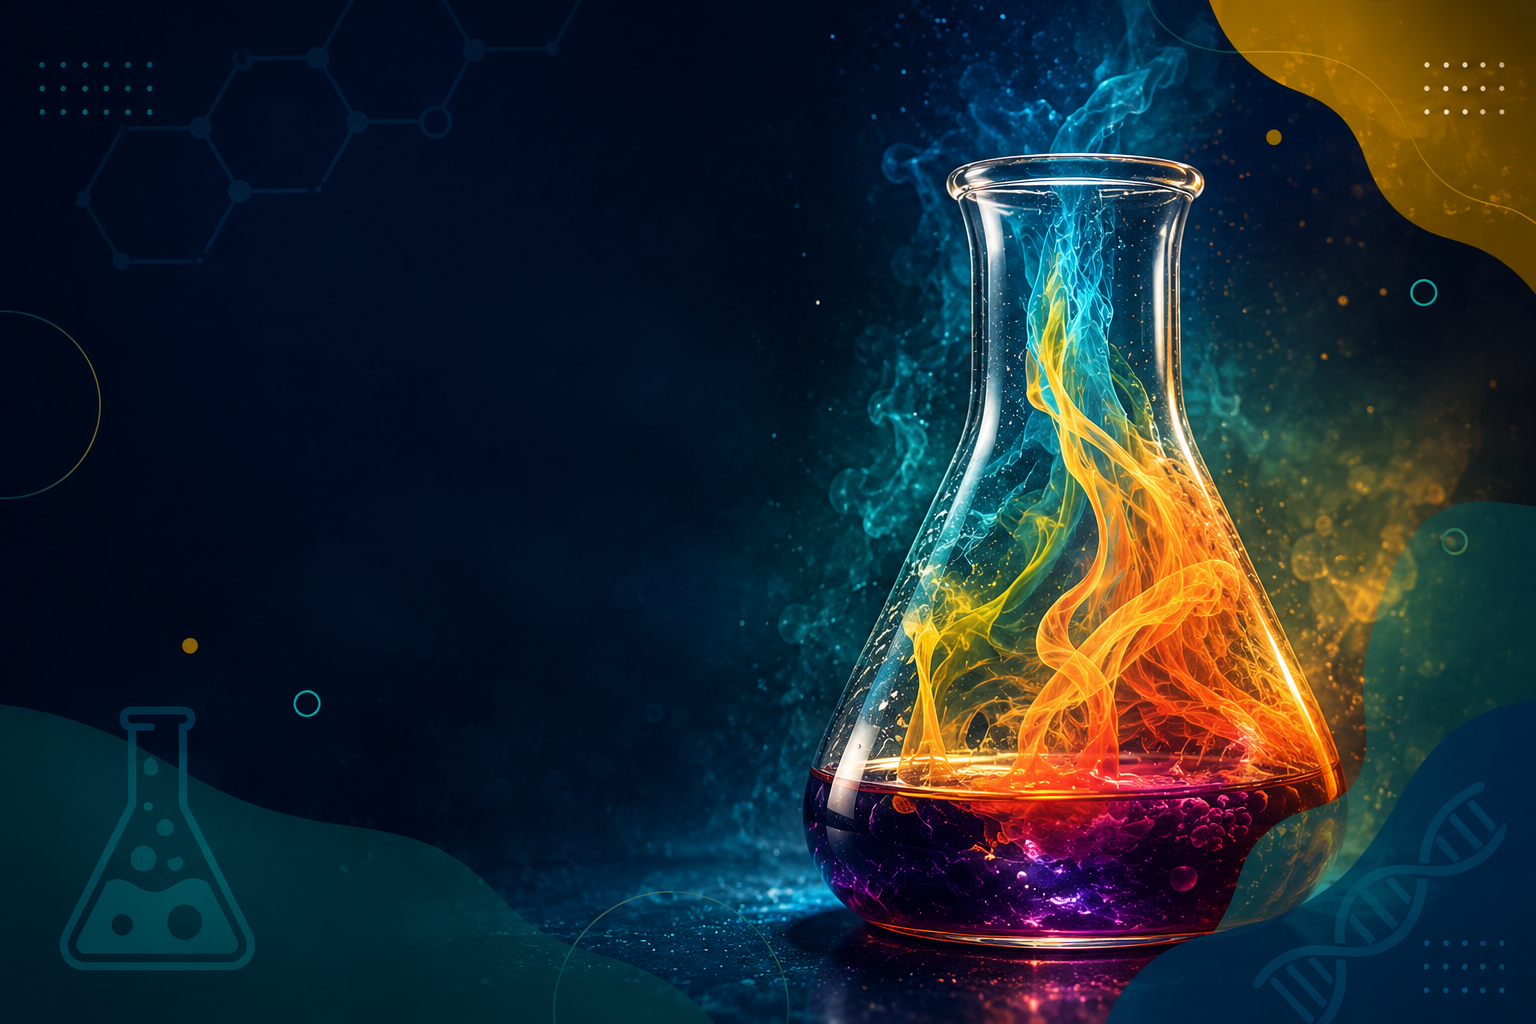
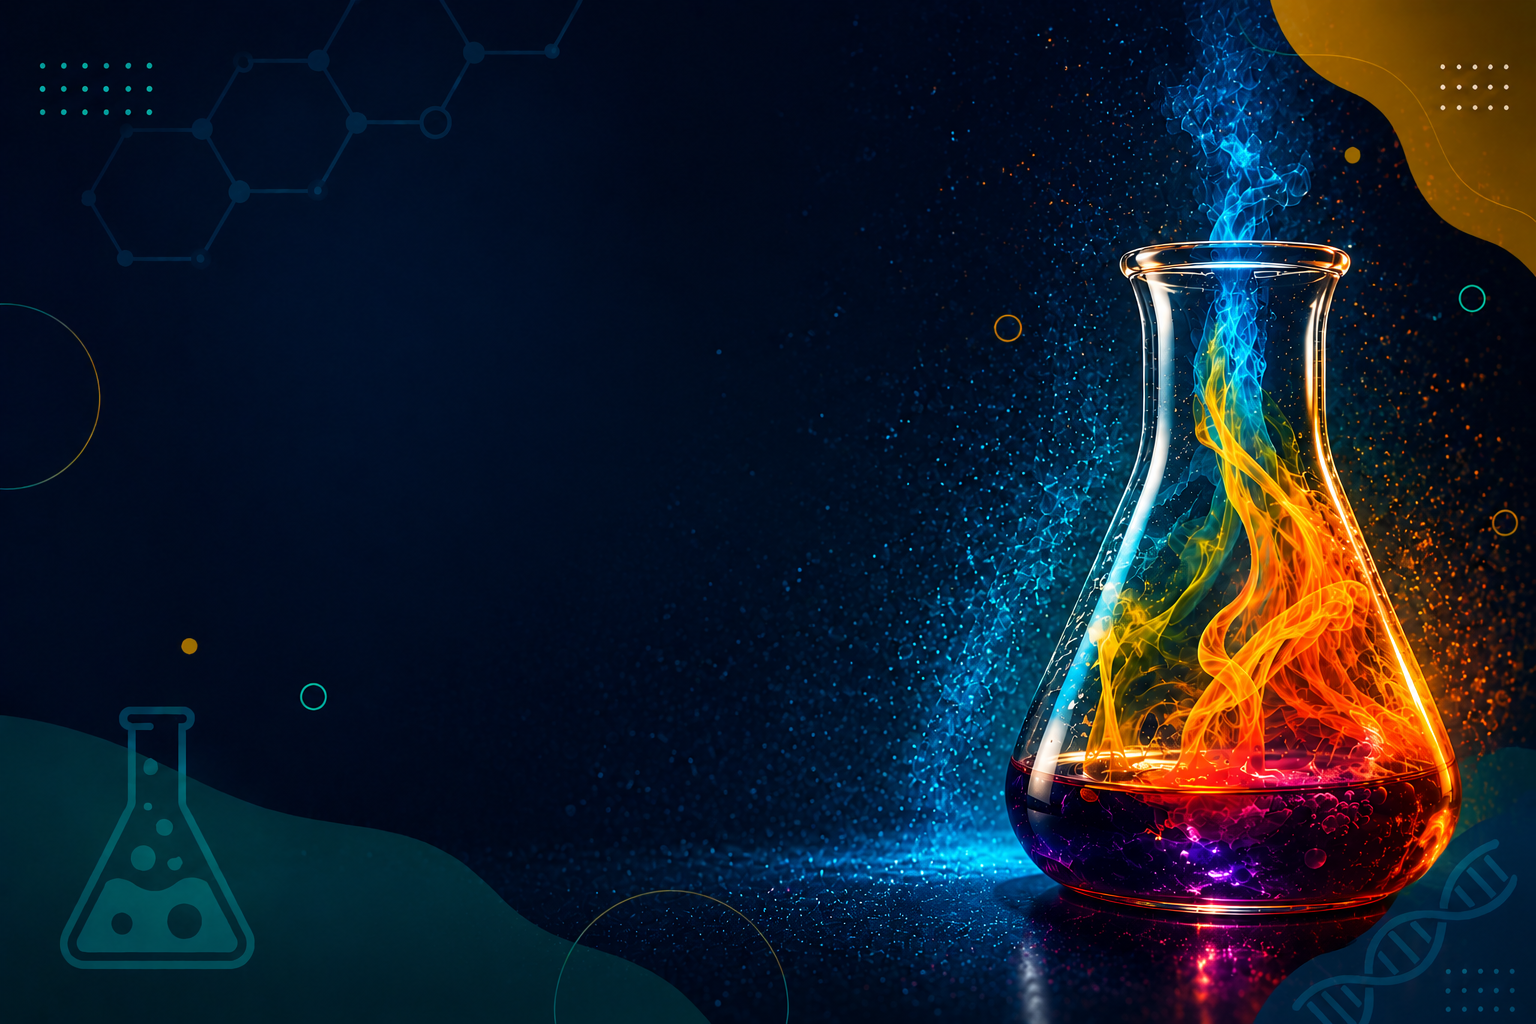
Changed layout and design of landing page to make text easy to read against new background

diff --git a/mobile/lib/screens/landing_page.dart b/mobile/lib/screens/landing_page.dart
@@ -46,85 +46,124 @@ class _LandingPageState extends State<LandingPage> {
   @override
   Widget build(BuildContext context) {
     final theme = Theme.of(context);
-    
+
     return Scaffold(
-      backgroundColor: const Color(0xFFF4F8F5),
-      body: SafeArea(
-        child: Padding(
-          padding: const EdgeInsets.all(24.0),
-          child: Center(
-            child: SingleChildScrollView(
-              child: Column(
-                mainAxisAlignment: MainAxisAlignment.center,
-                children: [
-                  const Icon(
-                    Icons.eco,
-                    size: 90,
-                    color: Colors.green,
-                  ),
-                  const SizedBox(height: 24),
-                  const Text(
-                    'Citizen Science for Kids',
-                    textAlign: TextAlign.center,
-                    style: TextStyle(
-                      fontSize: 30,
-                      fontWeight: FontWeight.bold,
-                    ),
-                  ),
-                  const SizedBox(height: 16),
-                  const Text(
-                    'Join your class project and record observations from the field!',
-                    textAlign: TextAlign.center,
-                    style: TextStyle(
-                      fontSize: 17,
-                      color: Colors.black87,
-                    ),
-                  ),
-                  const SizedBox(height: 32),
-                  TextField(
-                    controller: classCodeController,
-                    decoration: InputDecoration(
-                      labelText: 'Class Code',
-                      hintText: 'Enter your class code',
-                      border: OutlineInputBorder(
-                        borderRadius: BorderRadius.circular(12),
-                      ),
-                      prefixIcon: const Icon(Icons.lock_outline),
-                    ),
-                  ),
-                  const SizedBox(height: 20),
-                  SizedBox(
-                    width: double.infinity,
-                    child: ElevatedButton(
-                      onPressed: () {
-                        Navigator.pushReplacementNamed(context, '/nav');
-                      },
-                      style: ElevatedButton.styleFrom(
-                        backgroundColor: Colors.green,
-                        foregroundColor: Colors.white,
-                        padding: const EdgeInsets.symmetric(vertical: 16),
-                        textStyle: const TextStyle(fontSize: 18),
-                        shape: RoundedRectangleBorder(
-                          borderRadius: BorderRadius.circular(12),
+      body: DecoratedBox(
+        decoration: BoxDecoration(
+          image: DecorationImage(
+            image: AssetImage("images/mobile_web_title.png"),
+            fit: BoxFit.cover
+          )
+        ),
+        child: SafeArea(
+          child: Padding(
+            padding: const EdgeInsets.all(24.0),
+            child: Center(
+              child: SingleChildScrollView(
+                child: Row(children: [
+                  Expanded(
+                    flex: 6,
+                    child: Column(
+                      mainAxisAlignment: MainAxisAlignment.center,
+                      children: [
+                        const Icon(
+                          Icons.eco,
+                          size: 90,
+                          color: Colors.green,
                         ),
-                      ),
-                      child: const Text('Join Project'),
+                        Container(
+                          padding: const EdgeInsets.only(bottom: 20.0, right: 20.0, left: 20.0),
+                          child: Column(
+                            mainAxisAlignment: MainAxisAlignment.center,
+                            children: [
+                              const SizedBox(height: 24),
+                              const Text(
+                                'Citizen Science for Kids',
+                                textAlign: TextAlign.center,
+                                style: TextStyle(
+                                  fontSize: 30,
+                                  fontWeight: FontWeight.bold,
+                                  color: Colors.white
+                                ),
+                              ),
+                              const SizedBox(height: 16),
+                              const Text(
+                                'Join your class project and record observations from the field!',
+                                textAlign: TextAlign.center,
+                                style: TextStyle(
+                                  fontSize: 17,
+                                  color: Colors.white,
+                                ),
+                              )
+                            ]
+                          )
+                        ),
+                        const SizedBox(height: 32),
+                        TextField(
+                          controller: classCodeController,
+                          decoration: InputDecoration(
+                            labelText: 'Class Code',
+                            labelStyle: TextStyle(
+                              color: Colors.grey
+                            ),
+                            hintText: 'Enter your class code',
+                            hintStyle: TextStyle(
+                              color: const Color.fromARGB(255, 72, 97, 109),
+                            ),
+                            enabledBorder: OutlineInputBorder(
+                              borderSide: BorderSide(
+                                color: Colors.white, width: 1.0
+                              )
+                            ),
+                            focusedBorder: OutlineInputBorder(
+                              borderSide: BorderSide(
+                                color: Colors.green,
+                                width: 3.0
+                              )
+                            ),
+                            border: OutlineInputBorder(
+                              borderRadius: BorderRadius.circular(12),
+                            ),
+                            prefixIcon: const Icon(Icons.lock_outline),
+                          ),
+                        ),
+                        const SizedBox(height: 20),
+                        SizedBox(
+                          width: double.infinity,
+                          child: ElevatedButton(
+                            onPressed: () {
+                              Navigator.pushReplacementNamed(context, '/nav');
+                            },
+                            style: ElevatedButton.styleFrom(
+                              backgroundColor: Colors.green,
+                              foregroundColor: Colors.white,
+                              padding: const EdgeInsets.symmetric(vertical: 16),
+                              textStyle: const TextStyle(fontSize: 18),
+                              shape: RoundedRectangleBorder(
+                                borderRadius: BorderRadius.circular(12),
+                              ),
+                            ),
+                            child: const Text('Join Project'),
+                          ),
+                        ),
+                        const SizedBox(height: 12),
+                        TextButton(
+                          onPressed: learnMore,
+                          child: const Text(
+                            'Learn More',
+                            style: TextStyle(fontSize: 16),
+                          ),
+                        ),
+                      ],
                     ),
                   ),
-                  const SizedBox(height: 12),
-                  TextButton(
-                    onPressed: learnMore,
-                    child: const Text(
-                      'Learn More',
-                      style: TextStyle(fontSize: 16),
-                    ),
-                  ),
-                ],
-              ),
-            ),
+                  Expanded(flex: 4, child: Container())
+                ]),
+              )
+            )
           ),
         ),
-      ),
+      )
     );
   }
 }
